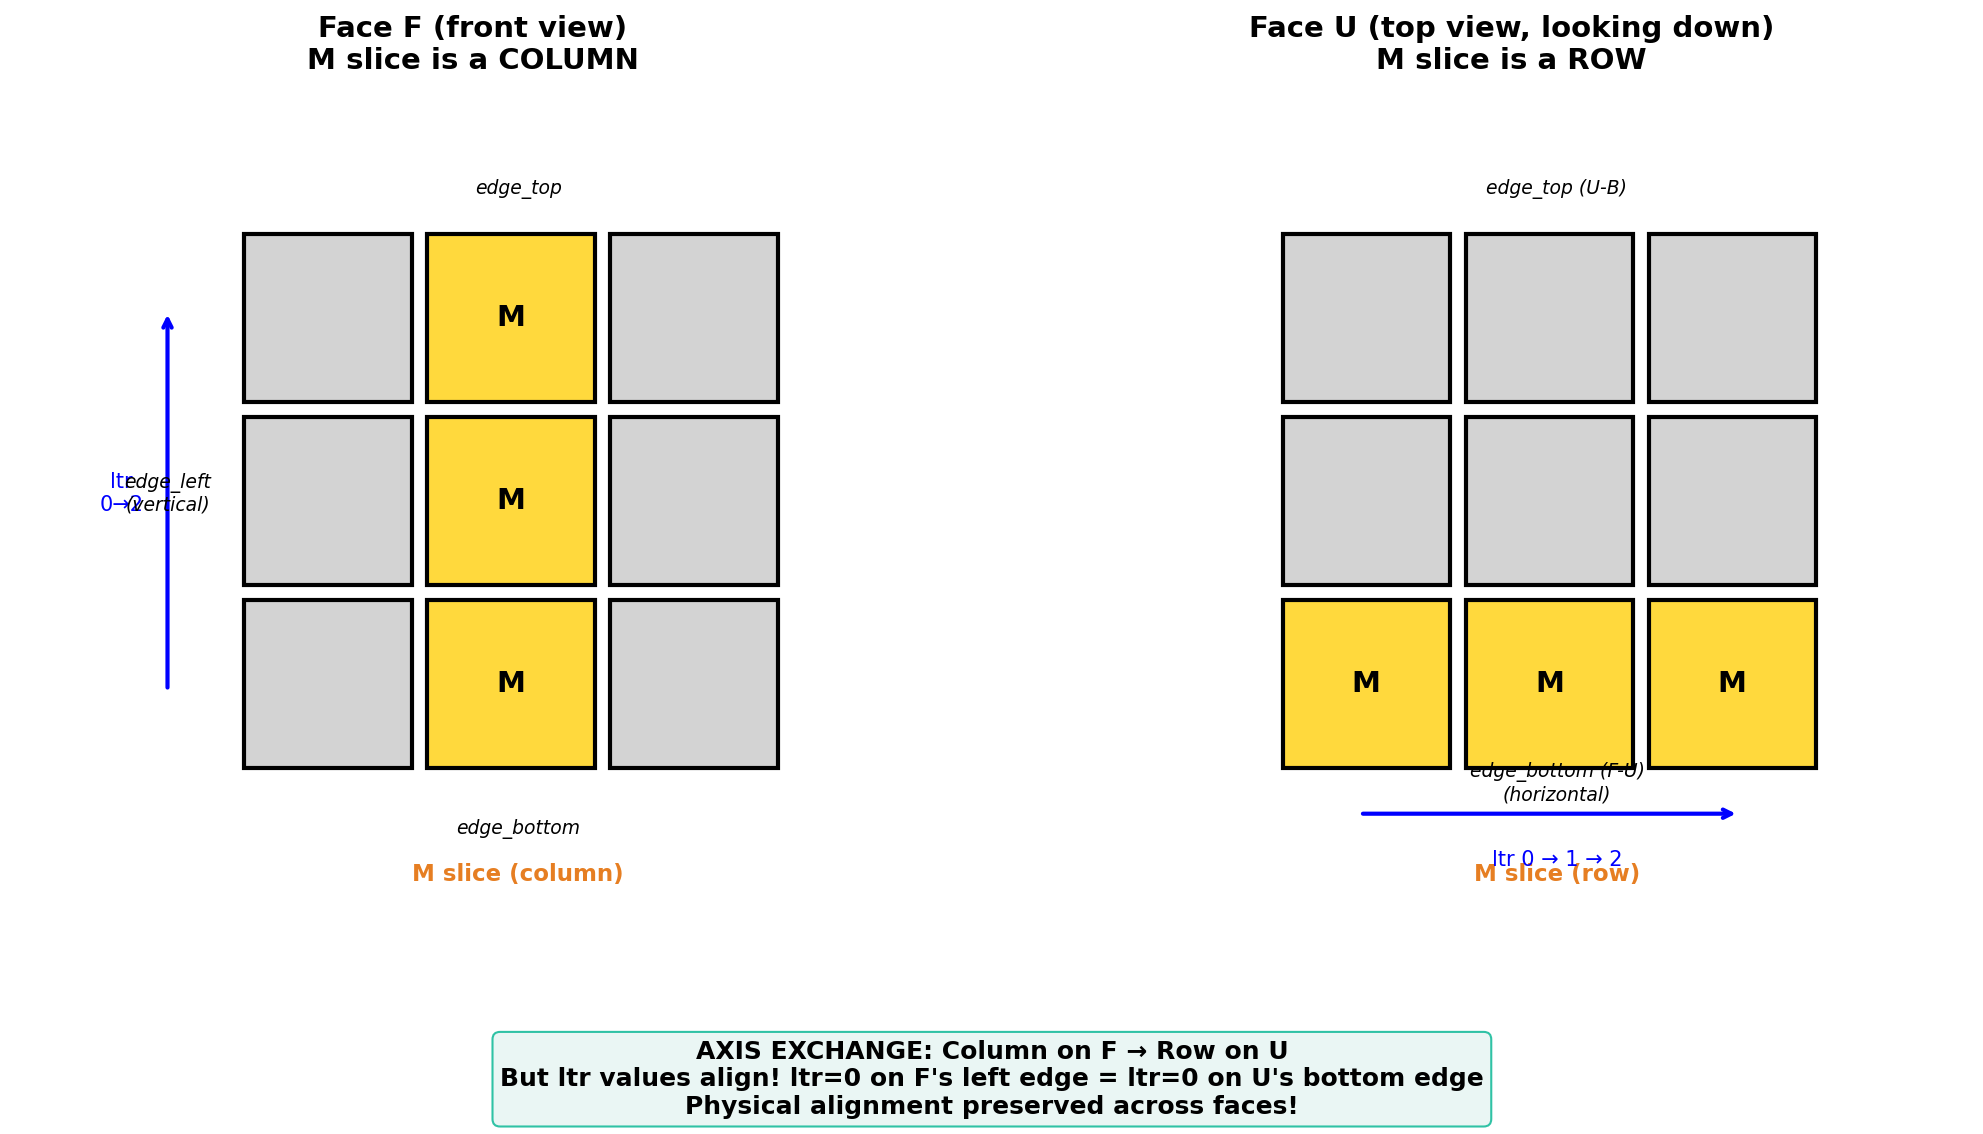
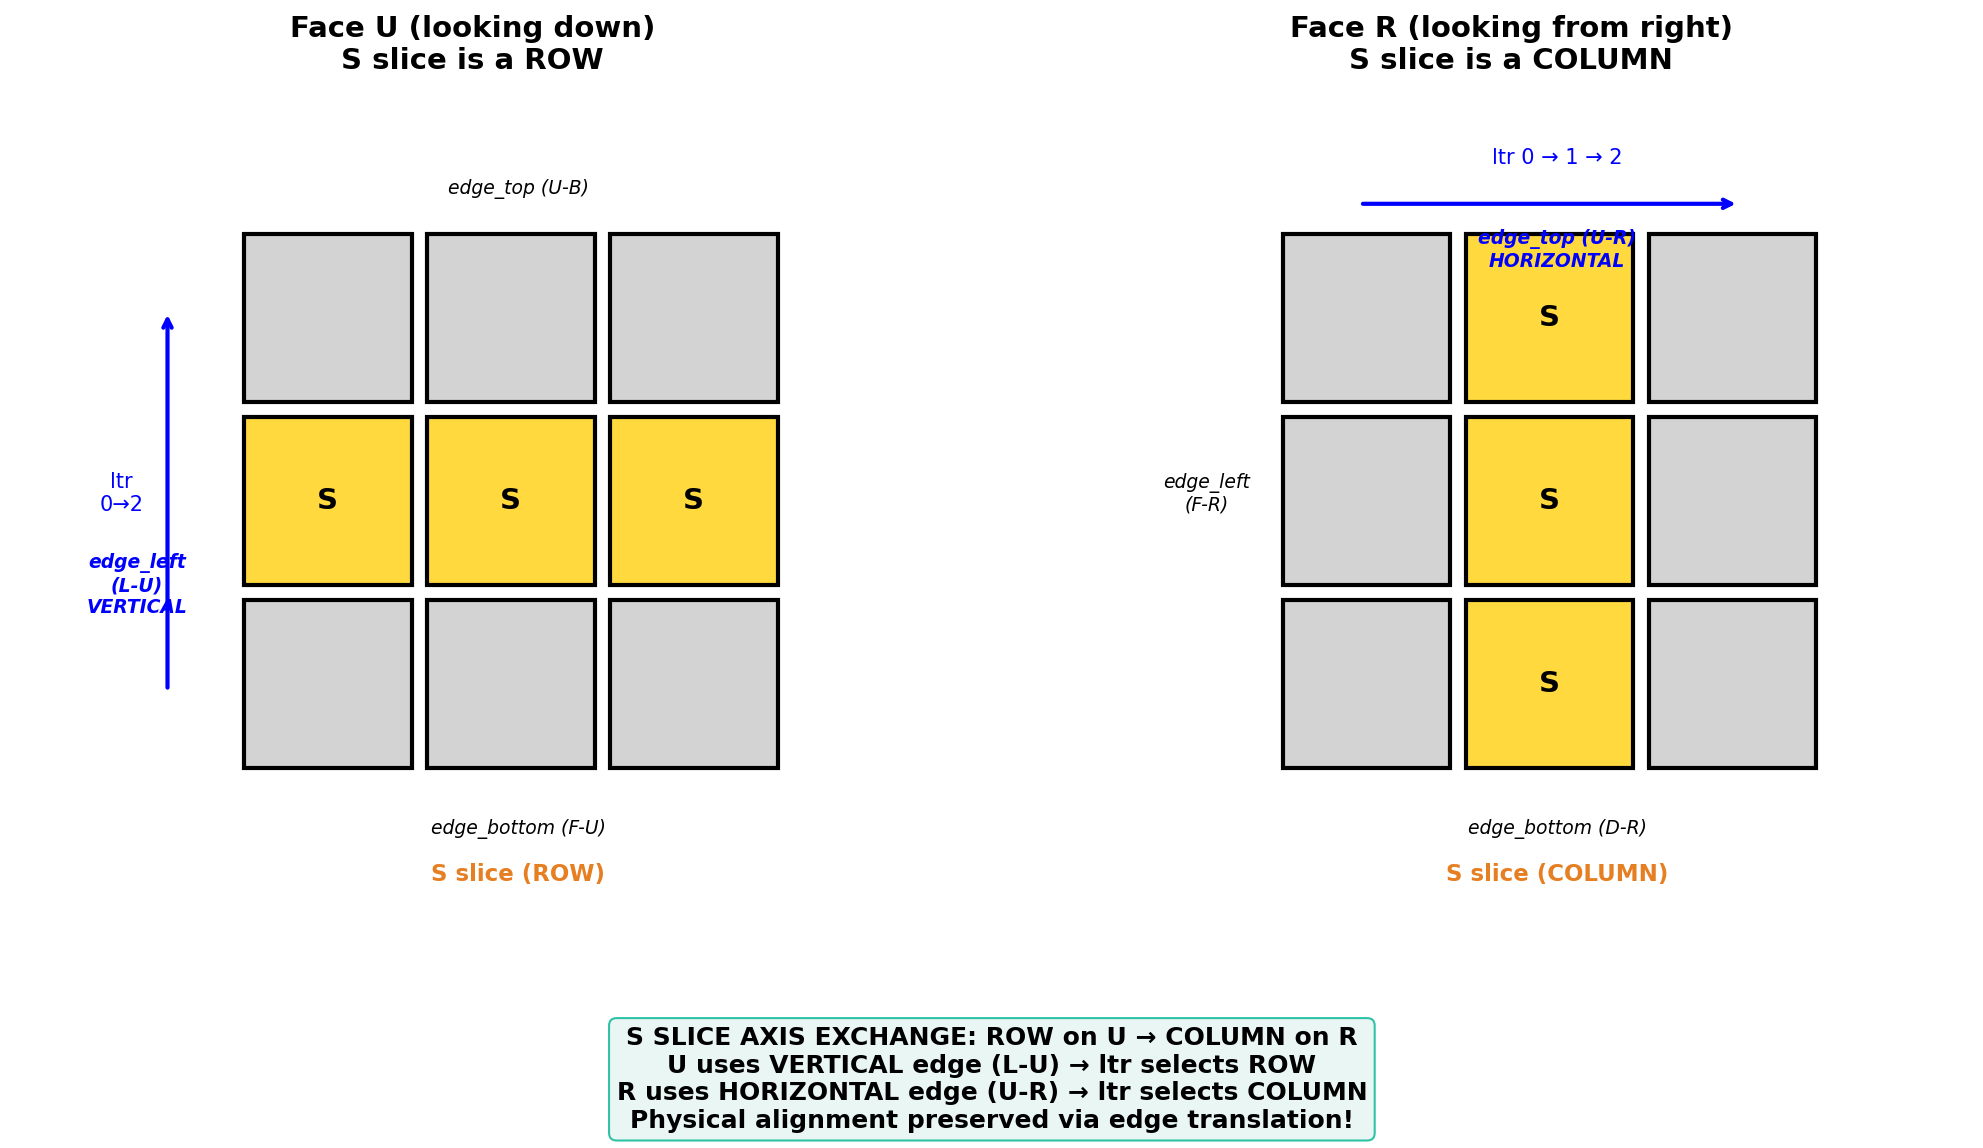
Fix axis exchange diagram to use S slice instead of M slice (Issue #53)
M slice uses only horizontal edges and stays as COLUMN on all faces.
S slice alternates between vertical and horizontal edges, demonstrating
the actual axis exchange behavior (ROW on U → COLUMN on R).

Updated documentation and regenerated diagrams to accurately show:
- M slice: NO axis exchange (always COLUMN)
- S slice: HAS axis exchange (ROW ↔ COLUMN)

diff --git a/scripts/generate_ltr_diagrams.py b/scripts/generate_ltr_diagrams.py
@@ -119,79 +119,92 @@ edge translation handles f1/f2 differences!"""
 
 
 def create_slice_rotation_diagram():
-    """Create diagram showing slice rotation with axis exchange."""
+    """Create diagram showing S slice rotation with axis exchange.
+
+    S slice alternates between ROW and COLUMN as it moves around faces:
+    - U: ROW (uses vertical edge_left L-U)
+    - R: COLUMN (uses horizontal edge_top U-R)
+    - D: ROW (uses vertical edge_right D-R)
+    - L: COLUMN (uses horizontal edge_bottom L-D)
+
+    Note: M slice does NOT have axis exchange - it stays as COLUMN on all faces.
+    """
     fig, axes = plt.subplots(1, 2, figsize=(14, 8))
 
-    # Left side: Face F (front view)
+    # Left side: Face U (looking down)
     ax1 = axes[0]
     ax1.set_xlim(-0.5, 5.5)
     ax1.set_ylim(-0.5, 5.5)
     ax1.set_aspect('equal')
     ax1.axis('off')
-    ax1.set_title('Face F (front view)\nM slice is a COLUMN', fontsize=14, fontweight='bold')
+    ax1.set_title('Face U (looking down)\nS slice is a ROW', fontsize=14, fontweight='bold')
 
-    # Draw 3x3 grid for Face F
+    # Draw 3x3 grid for Face U
     for i in range(3):
         for j in range(3):
-            color = '#FFD93D' if j == 1 else 'lightgray'  # Middle column is M slice
+            color = '#FFD93D' if i == 1 else 'lightgray'  # Middle row is S slice
             rect = patches.Rectangle((1 + j * 1.2, 1 + i * 1.2), 1.1, 1.1,
                                      facecolor=color, edgecolor='black', linewidth=2)
             ax1.add_patch(rect)
-            if j == 1:
-                ax1.text(1.55 + j * 1.2, 1.55 + i * 1.2, 'M', fontsize=14,
+            if i == 1:
+                ax1.text(1.55 + j * 1.2, 1.55 + i * 1.2, 'S', fontsize=14,
                         ha='center', va='center', fontweight='bold')
 
-    # Labels for Face F
-    ax1.text(2.8, 0.3, 'M slice (column)', fontsize=11, ha='center', va='center',
+    # Labels for Face U
+    ax1.text(2.8, 0.3, 'S slice (ROW)', fontsize=11, ha='center', va='center',
             color='#E67E22', fontweight='bold')
 
-    # Draw vertical ltr arrow on left
+    # Draw vertical ltr arrow on left (edge_left L-U)
     ax1.annotate('', xy=(0.5, 4), xytext=(0.5, 1.5),
                 arrowprops=dict(arrowstyle='->', color='blue', lw=2))
     ax1.text(0.2, 2.8, 'ltr\n0→2', fontsize=10, ha='center', va='center', color='blue')
 
     # Label edges
-    ax1.text(2.8, 4.8, 'edge_top', fontsize=9, ha='center', va='center', style='italic')
-    ax1.text(2.8, 0.6, 'edge_bottom', fontsize=9, ha='center', va='center', style='italic')
-    ax1.text(0.5, 2.8, 'edge_left\n(vertical)', fontsize=9, ha='center', va='center', style='italic')
+    ax1.text(2.8, 4.8, 'edge_top (U-B)', fontsize=9, ha='center', va='center', style='italic')
+    ax1.text(2.8, 0.6, 'edge_bottom (F-U)', fontsize=9, ha='center', va='center', style='italic')
+    ax1.text(0.3, 2.2, 'edge_left\n(L-U)\nVERTICAL', fontsize=9, ha='center', va='center',
+             style='italic', color='blue', fontweight='bold')
 
-    # Right side: Face U (top view)
+    # Right side: Face R (looking from right side)
     ax2 = axes[1]
     ax2.set_xlim(-0.5, 5.5)
     ax2.set_ylim(-0.5, 5.5)
     ax2.set_aspect('equal')
     ax2.axis('off')
-    ax2.set_title('Face U (top view, looking down)\nM slice is a ROW', fontsize=14, fontweight='bold')
+    ax2.set_title('Face R (looking from right)\nS slice is a COLUMN', fontsize=14, fontweight='bold')
 
-    # Draw 3x3 grid for Face U
+    # Draw 3x3 grid for Face R
     for i in range(3):
         for j in range(3):
-            color = '#FFD93D' if i == 0 else 'lightgray'  # Bottom row is M slice
+            color = '#FFD93D' if j == 1 else 'lightgray'  # Middle column is S slice
             rect = patches.Rectangle((1 + j * 1.2, 1 + i * 1.2), 1.1, 1.1,
                                      facecolor=color, edgecolor='black', linewidth=2)
             ax2.add_patch(rect)
-            if i == 0:
-                ax2.text(1.55 + j * 1.2, 1.55 + i * 1.2, 'M', fontsize=14,
+            if j == 1:
+                ax2.text(1.55 + j * 1.2, 1.55 + i * 1.2, 'S', fontsize=14,
                         ha='center', va='center', fontweight='bold')
 
-    # Labels for Face U
-    ax2.text(2.8, 0.3, 'M slice (row)', fontsize=11, ha='center', va='center',
+    # Labels for Face R
+    ax2.text(2.8, 0.3, 'S slice (COLUMN)', fontsize=11, ha='center', va='center',
             color='#E67E22', fontweight='bold')
 
-    # Draw horizontal ltr arrow on bottom
-    ax2.annotate('', xy=(4, 0.7), xytext=(1.5, 0.7),
+    # Draw horizontal ltr arrow on top (edge_top U-R)
+    ax2.annotate('', xy=(4, 4.7), xytext=(1.5, 4.7),
                 arrowprops=dict(arrowstyle='->', color='blue', lw=2))
-    ax2.text(2.8, 0.4, 'ltr 0 → 1 → 2', fontsize=10, ha='center', va='center', color='blue')
+    ax2.text(2.8, 5.0, 'ltr 0 → 1 → 2', fontsize=10, ha='center', va='center', color='blue')
 
     # Label edges
-    ax2.text(2.8, 4.8, 'edge_top (U-B)', fontsize=9, ha='center', va='center', style='italic')
-    ax2.text(2.8, 0.9, 'edge_bottom (F-U)\n(horizontal)', fontsize=9, ha='center', va='center', style='italic')
+    ax2.text(2.8, 4.4, 'edge_top (U-R)\nHORIZONTAL', fontsize=9, ha='center', va='center',
+             style='italic', color='blue', fontweight='bold')
+    ax2.text(2.8, 0.6, 'edge_bottom (D-R)', fontsize=9, ha='center', va='center', style='italic')
+    ax2.text(0.5, 2.8, 'edge_left\n(F-R)', fontsize=9, ha='center', va='center', style='italic')
 
     # Add connection arrow between the two faces
     fig.text(0.5, 0.15,
-             'AXIS EXCHANGE: Column on F → Row on U\n'
-             'But ltr values align! ltr=0 on F\'s left edge = ltr=0 on U\'s bottom edge\n'
-             'Physical alignment preserved across faces!',
+             'S SLICE AXIS EXCHANGE: ROW on U → COLUMN on R\n'
+             'U uses VERTICAL edge (L-U) → ltr selects ROW\n'
+             'R uses HORIZONTAL edge (U-R) → ltr selects COLUMN\n'
+             'Physical alignment preserved via edge translation!',
              fontsize=12, ha='center', va='center',
              bbox=dict(boxstyle='round', facecolor='#E8F6F3', alpha=0.9, edgecolor='#1ABC9C'),
              fontweight='bold')

diff --git a/docs/design2/edge-face-coordinate-system-approach2.md b/docs/design2/edge-face-coordinate-system-approach2.md
@@ -283,59 +283,76 @@ See: `Slice.py:112-122` for the implementation.
 ### The Axis Exchange Problem
 
 ![Axis Exchange Diagram](images/slice-rotation-axis-exchange.png)
-*Diagram showing M slice as column on Face F becoming row on Face U*
+*Diagram showing S slice alternating between ROW and COLUMN as it moves around the cube*
 
 **The complexity goes deeper:** Not only does the index change, but the
 **coordinate axis itself changes** as a slice moves between faces!
 
-#### Real Example: M Slice Rotation (F → U)
+#### M Slice: NO Axis Exchange
 
-The M slice is the middle vertical layer between L and R faces.
-It rotates through: F → U → B → D → F
+The M slice uses only horizontal edges (edge_bottom → edge_top on each face).
+It stays as a **COLUMN** on all 4 faces: F → U → B → D → F.
 
 ```
-    Face F (front view)              Face U (top view, looking down)
+    M slice path (all horizontal edges):
+    F: edge_bottom (F-D)  →  U: edge_bottom (F-U)  →  B: edge_top (U-B)  →  D: edge_bottom (D-B)
+    COLUMN                   COLUMN                   COLUMN                COLUMN
+```
 
-         edge_top                         edge_top (U-B)
-        ┌─────────┐                      ┌─────────┐
-        │ · │ · │ ·│                     │ · · · │
-  edge  │───┼───┼──│ edge         edge   │─────────│ edge
-  left  │ · │ M │ ·│ right        left   │ · · · │ right
-  (F-L) │───┼───┼──│ (F-R)        (L-U)  │─────────│ (U-R)
-        │ · │ · │ ·│                     │ M M M │
-        └─────────┘                      └─────────┘
-         edge_bottom                      edge_bottom (F-U)
+#### S Slice: HAS Axis Exchange
 
-    On F: M is a COLUMN              On U: M is a ROW!
-    (vertical, along T axis)         (horizontal, along R axis)
-    ltr on edge_left                 ltr on edge_bottom
+The S slice starts at a vertical edge and alternates between vertical and horizontal:
+
+```
+    S slice path (alternating edge types):
+    U: edge_left (L-U)  →  R: edge_top (U-R)  →  D: edge_right (D-R)  →  L: edge_bottom (L-D)
+    ROW (vertical)         COLUMN (horizontal)   ROW (vertical)          COLUMN (horizontal)
+```
+
+#### Real Example: S Slice Rotation (U → R)
+
+```
+    Face U (looking down)                Face R (looking from right side)
+
+         edge_top (U-B)                       edge_top (U-R)
+        ┌─────────────┐                      ┌─────────────┐
+        │ · · · · · │                        │ S S S S S │  ← S is now TOP ROW!
+  edge  │ S S S S S │  ← S is 2nd ROW  edge  │ · · · · · │  edge
+  left  │ · · · · · │                  left  │ · · · · · │  right
+  (L-U) │ · · · · · │                  (F-R) │ · · · · · │  (R-B)
+        │ · · · · · │                        │ · · · · · │
+        └─────────────┘                      └─────────────┘
+         edge_bottom (F-U)                    edge_bottom (D-R)
+
+    On U: S is a ROW                    On R: S is a COLUMN!
+    (horizontal, ltr on edge_left)      (vertical, ltr on edge_top)
 ```
 
 **What happened?**
-- On Face F: M slice touches edge_left (VERTICAL edge), ltr = bottom→top
-- On Face U: M slice touches edge_bottom (HORIZONTAL edge), ltr = left→right
+- On Face U: S slice uses edge_left (VERTICAL edge), ltr selects ROW
+- On Face R: S slice uses edge_top (HORIZONTAL edge), ltr selects COLUMN
 - The slice moved from a VERTICAL edge to a HORIZONTAL edge!
 
 #### How LTR Handles This
 
-The magic: **ltr=2 on F's vertical edge = ltr=2 on U's horizontal edge**
+The magic: **ltr value is preserved across the edge translation**
 
 ```
-    F's edge_left (vertical)         U's edge_bottom (horizontal)
+    U's edge_left (vertical)          R's edge_top (horizontal)
 
          ltr=2 ─┐                         ┌─────────────┐
-         ltr=1 ─┤                         │ 0   1   2   │
-         ltr=0 ─┘                         └─ltr─────────┘
-              connects to →                 same physical position!
+         ltr=1 ─┤  (S slice)              │ 0   1   2   │  (S slice at ltr=1)
+         ltr=0 ─┘                         └─────────────┘
+              ↓                                   ↓
+         ROW index                          COLUMN index
 ```
 
-The bottom of F's left edge (ltr=0) connects to the left of U's bottom edge (ltr=0).
-The top of F's left edge (ltr=2) connects to the right of U's bottom edge (ltr=2).
+On U (vertical edge): ltr=1 means row 1 (from bottom)
+On R (horizontal edge): ltr=1 means column 1 (from left)
 
-**Physical alignment is preserved** because ltr values match at the connection point,
-even though:
-- On F, ltr represents vertical position (T axis, row index)
-- On U, ltr represents horizontal position (R axis, column index)
+**Physical alignment is preserved** because the ltr translation layer handles
+the index conversion through the shared edge, even though the coordinate axis
+changes from row-selection to column-selection.
 
 This is handled by `Slice.py:98-108` where the code checks if the edge is
 top/bottom (horizontal) vs left/right (vertical) and uses the ltr accordingly:
